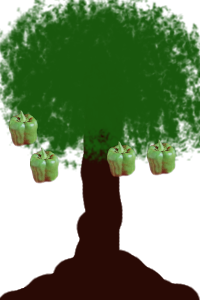
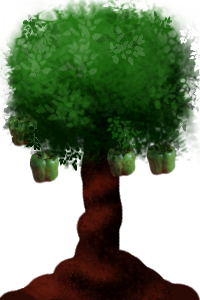
updgraded graphix

diff --git a/src/Main.cpp b/src/Main.cpp
@@ -40,7 +40,7 @@ Level *lvl1, *lvl2, *lvl3, *lvl4;
 Mix_Chunk *BGmusic;
 TTF_Font *ubuntuB, *tfFont;
 SDL_Texture *hearts;
-SDL_Surface *grass, *deadgrass, *spacegrass, *slime, *cat, *evilCat, *santasheet, *fireballSheet, *startBSurf;
+SDL_Surface *grass, *deadgrass, *spacegrass, *slime, *cat, *evilCat, *santasheet, *fireballSheet, *startBSurf, *treeSurf;
 SDL_Surface *lvl1BGSurf, *lvl2BGSurf, *lvl3BGSurf, *lvl4BGSurf;
 
 std::shared_ptr<GUIText> l1FuncText, startTitle;
@@ -48,7 +48,7 @@ std::shared_ptr<GUITextField> startNameInput;
 std::shared_ptr<GUIButton> startB;
 std::shared_ptr<Sprite> lvl1BG, lvl2BG, lvl3BG, lvl4BG;
 std::shared_ptr<MobileSprite> santa, l1Cat1, l1Cat2, l3Cat1, l2Cat1, l2Cat2;
-std::shared_ptr<ImmobileSprite> l1Obst1, l1Obst2, l2Obst1, l2Obst2, l3Obst1, l4Obst1;
+std::shared_ptr<ImmobileSprite> l1Obst1, l1Obst2, l2Obst1, l2Obst2, l3Obst1, l4Obst1, l4Tree1;
 
 
 void freeFunk() {
@@ -86,6 +86,7 @@ void loadMedia() {
 	cat = loader.loadSurface("media/tinyCat.png");
 	evilCat = loader.loadSurface("media/extraevilCat.png");
 	hearts = loader.loadTexture("media/heart.png");
+	treeSurf = loader.loadSurface("media/pepperTree.png");
 
 	lvl1BGSurf = loader.loadSurface("media/level1BG.png");
 	lvl2BGSurf = loader.loadSurface("media/level2BG.png");
@@ -198,6 +199,7 @@ void makeObjects() {
 	lvl4 = Level::getInstance(30, 399, 10, 10);
 	lvl4BG = Background::getInstance(lvl4BGSurf, 0, 0);
 	l4Obst1 = Obstacle::getInstance(spacegrass, 30, 600, 0.2f);
+	l4Tree1 = Obstacle::getInstance(treeSurf, 600, 300, 0.1f);
 
 }
 
@@ -240,6 +242,7 @@ void addStaticObjects() {
 	// --level4--
 	lvl4->add(lvl4BG);
 	lvl4->add(l4Obst1);
+	lvl4->add(l4Tree1);
 }
 
 int main(int argc, char** argv) {
